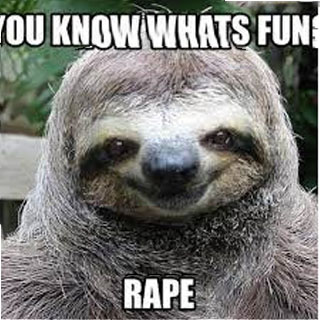
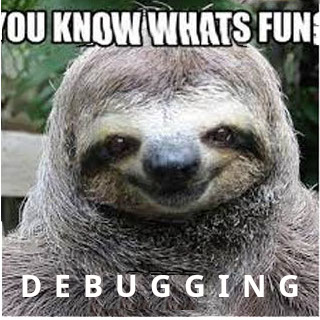
feat: add inputs (11.03.2023 13:56:30)

diff --git a/cssBayan/index.html b/cssBayan/index.html
@@ -16,44 +16,63 @@
             <p>CSS Bayan</p>
             <hr>
             <section id="one"><a href="#one">
-                <input class="faq-input" type="checkbox" id="faq_1">
-                <label class="faq-title" >I'm not lazy. I'm energy efficient.</label>
-                <div class="mem-img">
+                    <label class="faq-title" >
+                        <span class="faq-box">I'm not lazy. I'm energy efficient.</span>
+                        <input class="faq-input" type="checkbox" id="faq_1">
+                        <img class="icons" src="images/cross.png" alt="">
+                    </label>
+                <div class="mem-img show">
                     <img src="images/mm1.jpeg" alt="">
                 </div>
             </a></section>
             <hr>
-            <section id="two"><a href="#two">
-                <input class="faq-input" type="checkbox" id="faq_2">
-                <label class="faq-title" >I have no idea what i'm doing.</label>
-                <div class="mem-img">
+            <section id="one"><a href="#two">
+                    <label class="faq-title" >
+                        <span class="faq-box">I have no idea what i'm doing.</span>
+                        <input class="faq-input" type="checkbox" id="faq_2">
+                        <img class="icons" src="images/cross.png" alt="">
+                    </label>
+                <div class="mem-img show">
                     <img src="images/mm2.jpeg" alt="">
                 </div>
             </a></section>
             <hr>
-            <section id="three"><a href="#three">
-                <input class="faq-input" type="checkbox" id="faq_3">
-                <label class="faq-title" >You know whats fun: rape.</label>
-                <div class="mem-img">
+            <section id="one"><a href="#three">
+                    <label class="faq-title" >
+                        <span class="faq-box">You know whats fun: debugging.</span>
+                        <input class="faq-input" type="checkbox" id="faq_3">
+                        <img class="icons" src="images/cross.png" alt="">
+                    </label>
+                <div class="mem-img show">
                     <img src="images/mm3.jpeg" alt="">
                 </div>
             </a></section>
             <hr>
-            <section id="four"><a href="#four">
-                <input class="faq-input" type="checkbox" id="faq_4" value="+">
-                <label class="faq-title" >Oh yeah this tree could be you baby.</label>
-                <div class="mem-img">
+
+            <section id="one"><a href="#four">
+                    <label class="faq-title" >
+                        <span class="faq-box">Oh yeah this tree could be you code.</span>
+                        <input class="faq-input" type="checkbox" id="faq_4">
+                        <img class="icons" src="images/cross.png" alt="">
+                    </label>
+                <div class="mem-img show">
                     <img src="images/mm4.jpeg" alt="">
                 </div>
             </a></section>
             <hr>
-            <section id="five"><a href="#five">
-                <input class="faq-input" type="checkbox" id="faq_5">
-                <label class="faq-title" >I'm pretty sure my spirit animal is a sloth.</label>
-                <div class="mem-img">
+            <section id="one"><a href="#five">
+                    <label class="faq-title" >
+                        <span class="faq-box">I'm pretty sure my spirit animal is a sloth.</span>
+                        <input class="faq-input" type="checkbox" id="faq_5">
+                        <img class="icons" src="images/cross.png" alt="">
+                    </label>
+                <div class="mem-img show">
                     <img src="images/mm5.jpeg" alt="">
                 </div>
             </a></section>
+            <hr>
+
+
         </div>
     </div>
 </body>

diff --git a/cssBayan/style.css b/cssBayan/style.css
@@ -57,9 +57,12 @@ section {
 
 .accordion :target label + div {
     height: 320px;
-    color: #000000;
-
+    /* color: #000000; */
 }
+
+
+
+
 .accordion :hover label + div {
     height: 320px;
     color: #000000;
@@ -116,6 +119,11 @@ section {
     margin: 1vh;
 }
 
-img{
-    /* width: 320px; */
+.faq-title{
+display: flex;
+    justify-content: space-between;
+}
+
+.icons {
+width: 2vh;
 }
